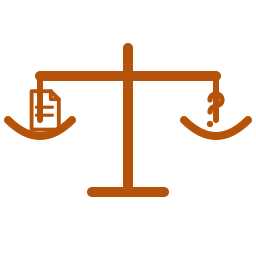
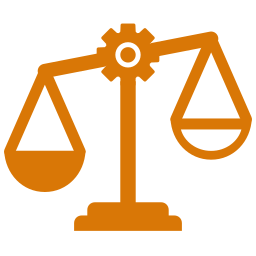
feat: update CHANGELOG.md, media (4 files)

diff --git a/CHANGELOG.md b/CHANGELOG.md
@@ -1,5 +1,10 @@
 # Changelog
 
+## [0.7.85] - 2026-08-15
+
+### Changed
+- **New extension icon: the scale** (`scale-only-amber`, by Caliper, brand-studio). Chosen by Jérémie over three pinion variants after live A/B on the activity bar: "the scale, as deliberation, is a powerful metaphor alone" — amber for the Marketplace tile, `currentColor` outline on the activity bar, legible at every size, beautiful without a badge and still clear with one. The documents icon retires; deliberation is the brand, files are just where it lives.
+
 ## [0.7.81] - 2026-08-14
 
 ### Added
